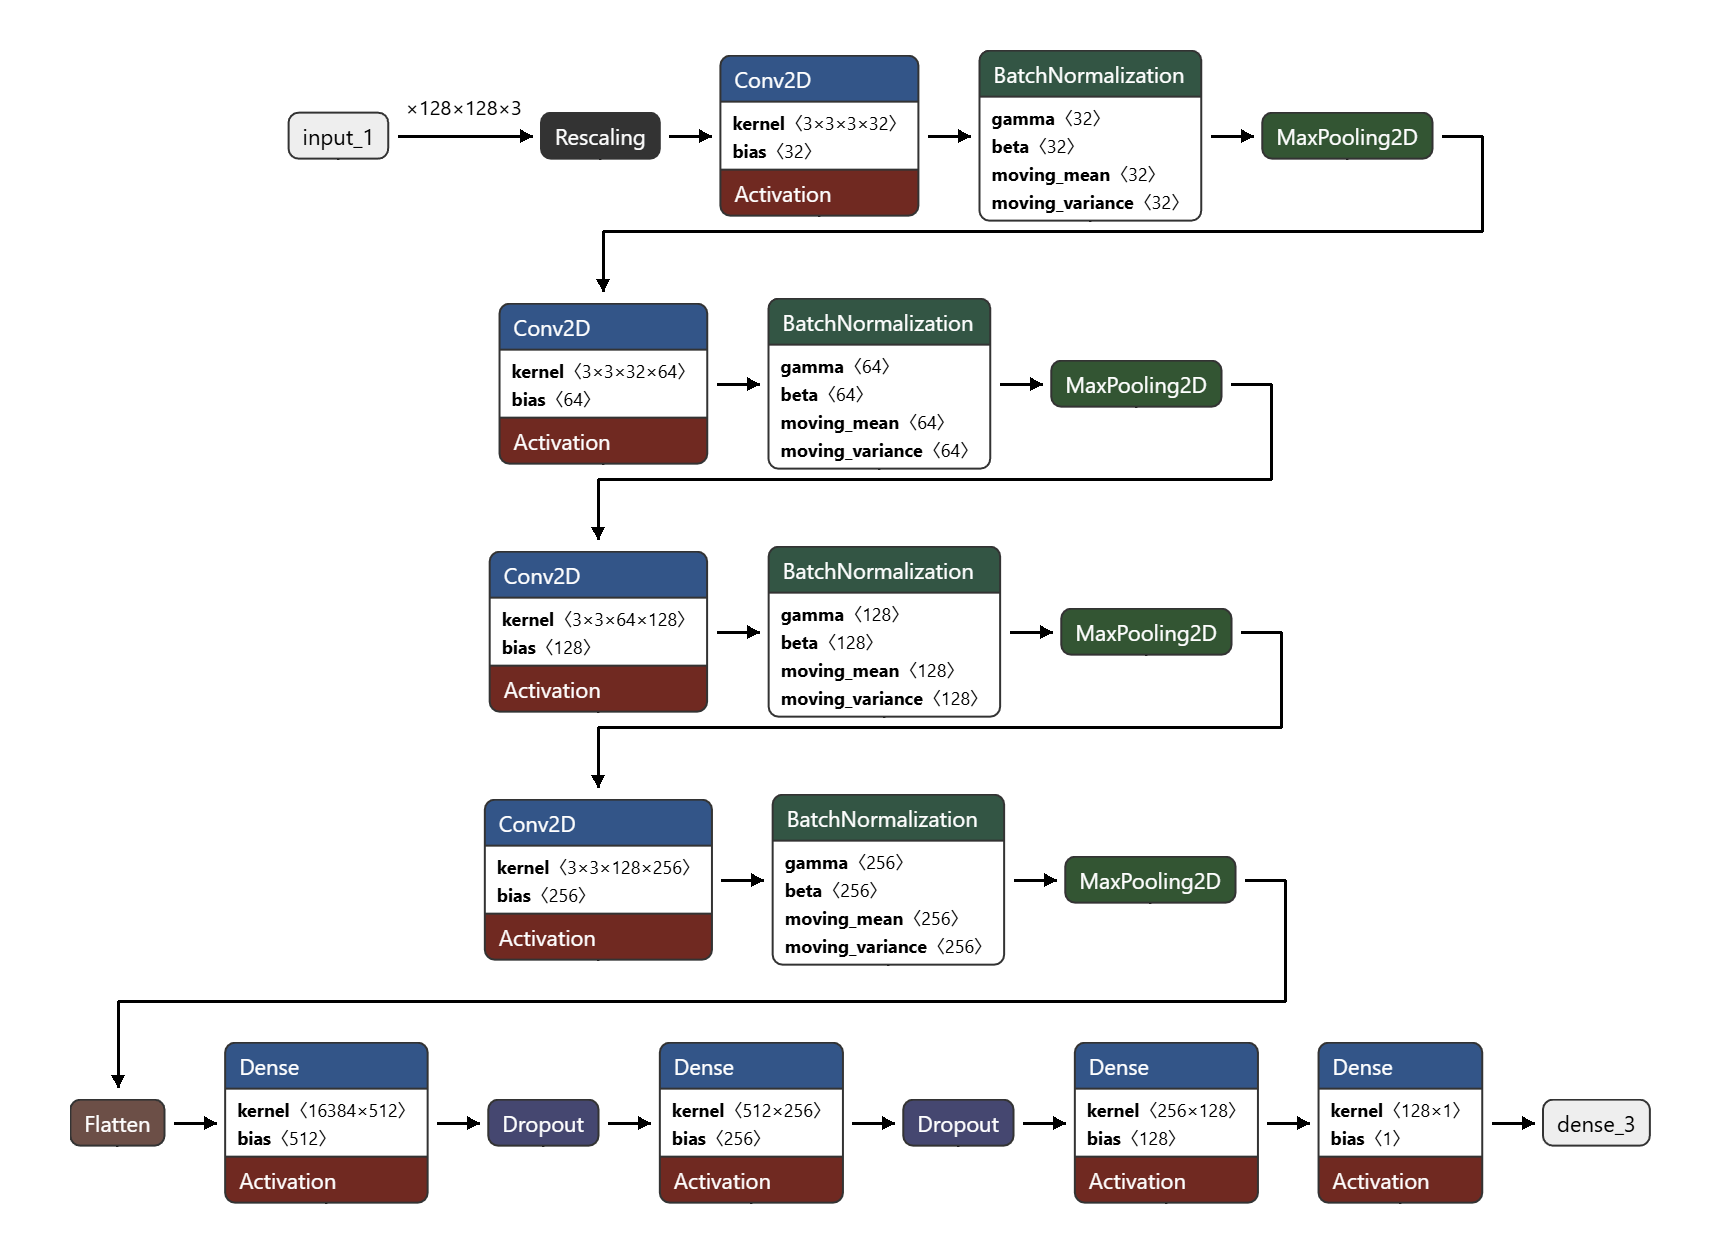
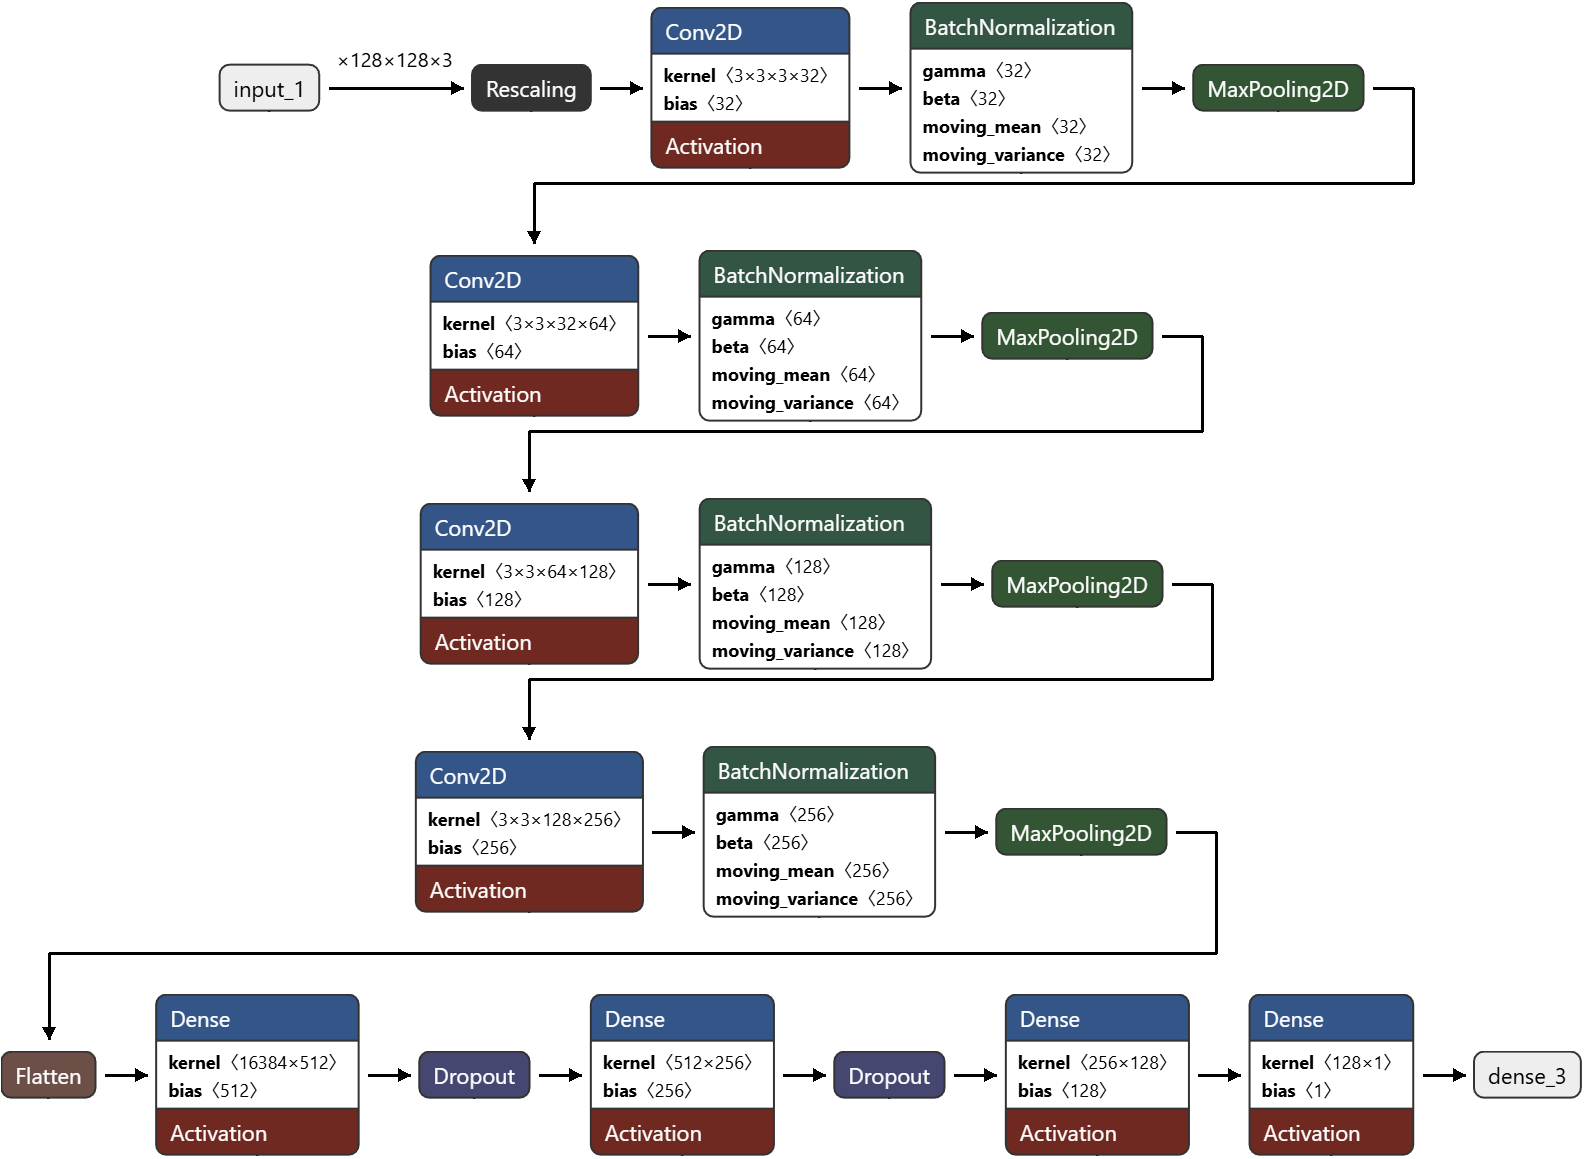
Update project: sync README, app, model, templates, add clalwer.js, clean up

Changed region(s): [[0.0, 0.2174, 1.0, 1.0], [0.1237, 0.0, 0.8965, 0.1864]]

diff --git a/clalwer.js b/clalwer.js
@@ -1,0 +1,66 @@
+(async function() {
+    const minSize = 8192; 
+    let downloadedUrls = new Set();
+    let fileIndex = 1;
+    const prefix = "Converse_";
+    const scrollInterval = setInterval(() => {
+        window.scrollBy(0, window.innerHeight); 
+    }, 2500);
+    const getNewUrls = () => {
+        const imgs = document.querySelectorAll('img');
+        const currentBatch = Array.from(imgs)
+            .map(img => {
+                return img.getAttribute('data-src') || 
+                       img.getAttribute('data-original') || 
+                       img.getAttribute('original-src') || 
+                       img.currentSrc || 
+                       img.src;
+            })
+            .filter(src => 
+                src && 
+                src.startsWith('http') && 
+                !src.toLowerCase().includes('favicon') && 
+                !src.includes('placeholder') && 
+                !downloadedUrls.has(src)
+            );
+        return [...new Set(currentBatch)];
+    };
+    try {
+        while (true) {
+            const targetUrls = getNewUrls();
+            if (targetUrls.length === 0) {
+                await new Promise(r => setTimeout(r, 2000));
+                continue;
+            }
+            for (let url of targetUrls) {
+                downloadedUrls.add(url);
+                const fileName = `${prefix}${fileIndex}.jpg`;
+                try {
+                    const res = await fetch(url);
+                    const blob = await res.blob();
+                    if (blob.size < minSize) continue;
+                    const blobUrl = window.URL.createObjectURL(blob);
+                    const a = document.createElement('a');
+                    a.href = blobUrl;
+                    a.download = fileName;
+                    document.body.appendChild(a);
+                    a.click();
+                    document.body.removeChild(a);
+                    window.URL.revokeObjectURL(blobUrl);
+                    fileIndex++; 
+                    await new Promise(r => setTimeout(r, 800));
+                } catch (e) {
+                    const a = document.createElement('a');
+                    a.href = url;
+                    a.download = fileName;
+                    a.target = '_blank';
+                    a.click();
+                    fileIndex++; 
+                    await new Promise(r => setTimeout(r, 800));
+                }
+            }
+        }
+    } catch (err) {
+        clearInterval(scrollInterval);
+    }
+})();